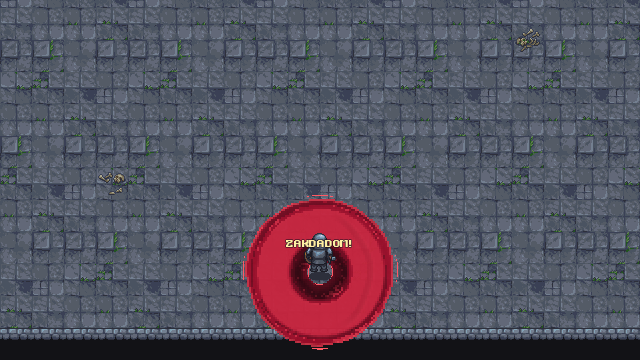
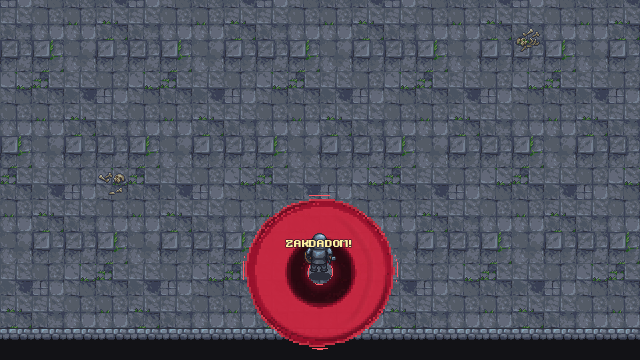
Smooth incantation word transitions

diff --git a/VFX_Comparison.html b/VFX_Comparison.html
@@ -77,7 +77,7 @@
 
     <section id="motion">
       <h2>Se skillnaden i rörelse</h2>
-      <p class="intro">Båda laddningarna går från ZAK till ZAK DA och vidare mot ZAKDADOM. Titta främst efter vad som händer när DA läggs till: i B lever tidigare vågor vidare och möter den nya impulsen.</p>
+      <p class="intro">Båda laddningarna går från ZAK till ZAK DA och vidare mot ZAKDADOM. Ny ordgeometri easas nu in under 0,36 sekunder: radie, sektor, riktning och hål vecklas ut utan ett storlekshopp. I B lever dessutom tidigare vågor vidare och möter den nya impulsen.</p>
       <figure>
         <div class="frame"><img src="spike_a_b_comparison_motion.gif" alt="Animerad jämförelse av Spike A och Spike B" loading="eager"></div>
         <figcaption>Vänster: procedurshader. Höger: 256×256 height-field. Båda använder samma fasta 2×2 world-space-pixelstorlek genom hela laddningen.</figcaption>
@@ -130,6 +130,7 @@
       <ul>
         <li>Smoke, combat, spell grammar, workbench, Rat Blood-loop, camp-meta och hela femrumsrutten: <b>7/7 godkända</b>.</li>
         <li>Regressionstest: medium och full radie måste ge samma world-pixelstorlek, medan antalet renderade celler måste öka.</li>
+        <li>24 FPS-rörelsefångsten misslyckas automatiskt om ett ord orsakar ett radiesteg större än 12 spelpixlar mellan två kontrollbilder.</li>
         <li>A/B-fångsten startar båda renderers från samma scen och misslyckas om GPU-fältet inte blir redo eller utför arbete.</li>
         <li>Headless-tester utan RenderingDevice fortsätter genom shaderfallbacken utan att påverka spelmekanik eller sparfil.</li>
         <li>Forward+ är nu projektets aktiva renderer; 3D har inte återinförts och spelet är fortfarande äkta top-down 2D-pixelspel.</li>
